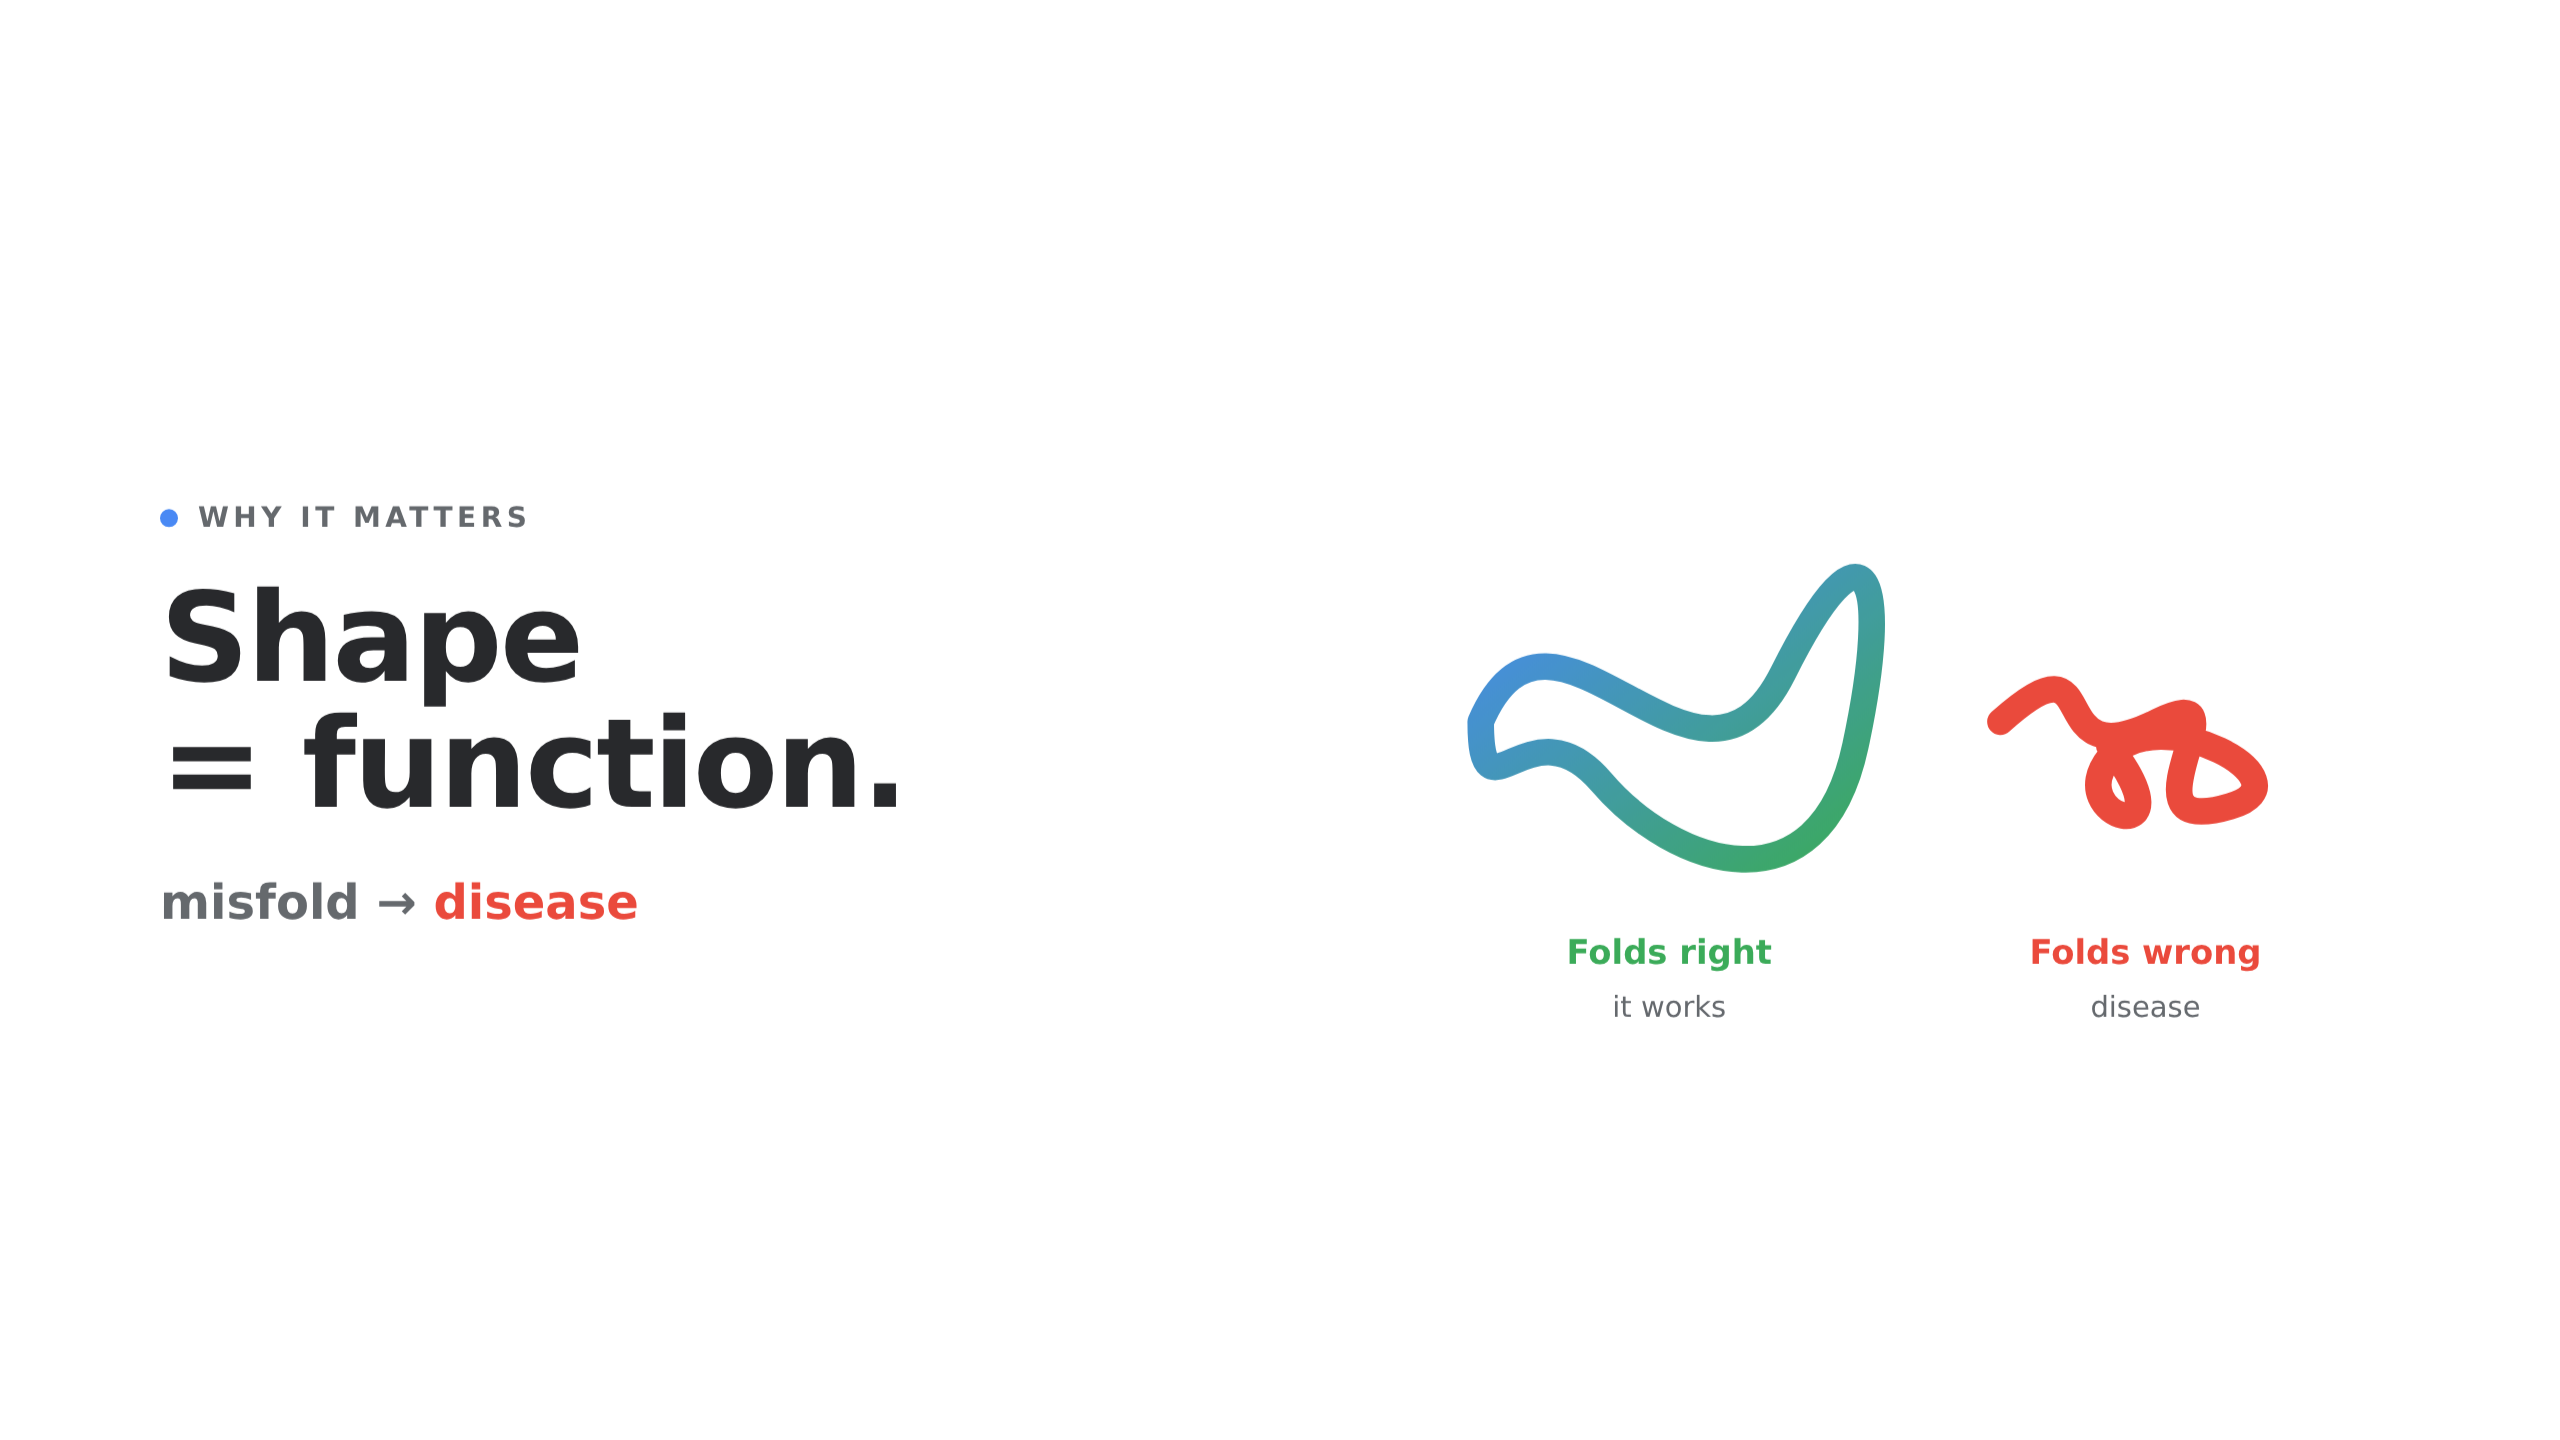
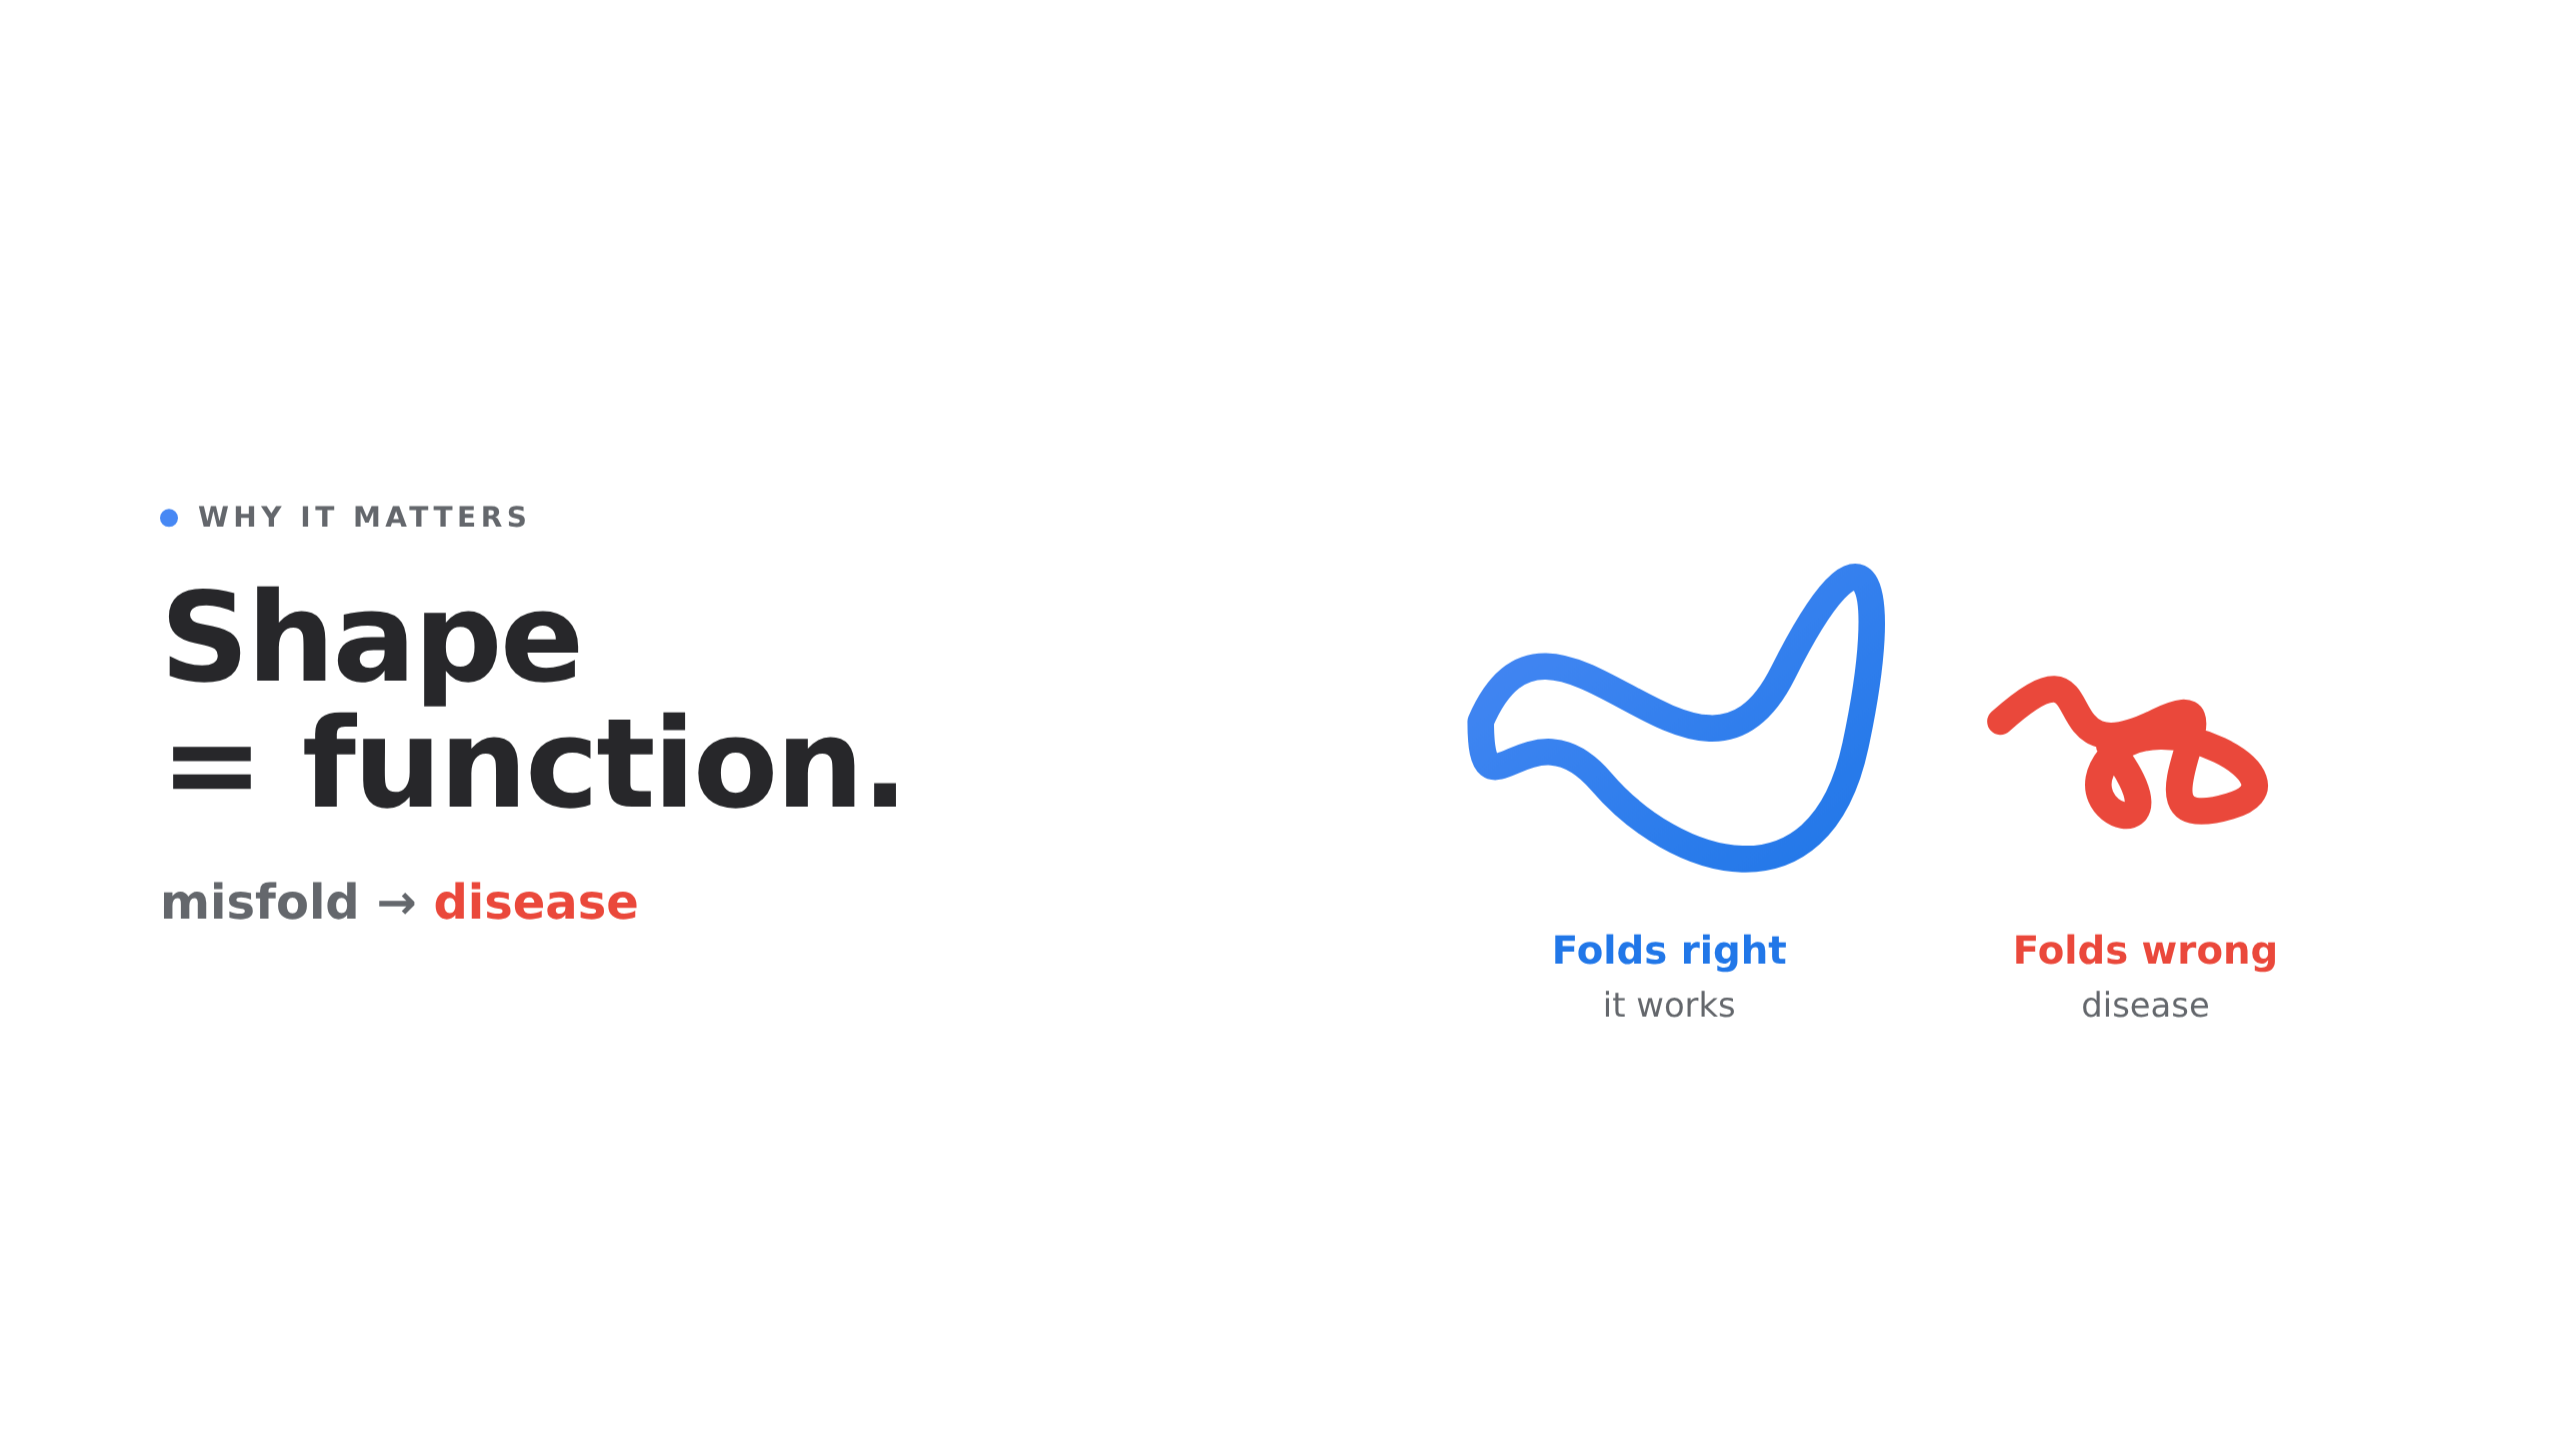
Improve color accessibility and sub-label readability
Remove red+green pairing from every content slide (blue/red, blue/yellow/green
schemes); reorder wordmark so red and green never sit adjacent. Bump sub-header,
tag, step, chip, and caption sizes for readability. Regenerate export images.

Claude-Session: https://claude.ai/code/session_01Bs5QxwcQxX81M5Q77HARNf

Changed region(s): [[0.5625, 0.375, 0.75, 0.7188], [0.7812, 0.625, 0.9062, 0.7188]]

diff --git a/presentation/alphafold.html b/presentation/alphafold.html
@@ -110,7 +110,7 @@
     letter-spacing: -.02em; text-wrap: balance;
   }
   .lead { font-size: clamp(18px, 2.5vw, 27px); line-height: 1.32; color: var(--ink-soft); font-weight: 400; max-width: 60ch; margin:0; text-wrap: balance; }
-  .sub  { font-size: clamp(15px, 1.7vw, 19px); line-height: 1.5; color: var(--muted); max-width: 56ch; margin:0; }
+  .sub  { font-size: clamp(16px, 2vw, 22px); line-height: 1.5; color: var(--muted); max-width: 56ch; margin:0; }
   .accent-blue { color: var(--g-blue-d); }
   .accent-red  { color: var(--g-red); }
   .accent-green{ color: var(--g-green); }
@@ -122,11 +122,12 @@
   /* ---------- title fold ---------- */
   .title-wrap { display:flex; flex-direction:column; gap: clamp(18px,3vh,30px); }
   .wordmark { font-weight:700; letter-spacing:-.03em; }
+  /* colors ordered so red and green never sit adjacent */
   .wordmark .a1{color:var(--g-blue);} .wordmark .a2{color:var(--g-red);}
   .wordmark .a3{color:var(--g-yellow);} .wordmark .a4{color:var(--g-blue);}
-  .wordmark .a5{color:var(--g-green);} .wordmark .a6{color:var(--g-red);}
-  .wordmark .a7{color:var(--g-blue);} .wordmark .a8{color:var(--g-green);}
-  .wordmark .a9{color:var(--g-yellow);}
+  .wordmark .a5{color:var(--g-green);} .wordmark .a6{color:var(--g-yellow);}
+  .wordmark .a7{color:var(--g-blue);} .wordmark .a8{color:var(--g-red);}
+  .wordmark .a9{color:var(--g-blue);}
 
   /* ---------- stat ---------- */
   .stat-row { display:flex; flex-wrap:wrap; gap: clamp(20px,4vw,52px); }
@@ -144,8 +145,8 @@
 
   .chips { display:flex; flex-wrap:wrap; gap:10px; }
   .chip {
-    font-size: clamp(13px,1.5vw,16px); font-weight:600;
-    padding: 9px 16px; border-radius: 999px;
+    font-size: clamp(14px,1.7vw,18px); font-weight:600;
+    padding: 10px 18px; border-radius: 999px;
     background: var(--panel-2); border:1px solid var(--line); color: var(--ink-soft);
   }
   .chip .k { width:9px; height:9px; border-radius:3px; display:inline-block; margin-right:8px; vertical-align: middle; }
@@ -160,7 +161,7 @@
   }
   .step .badge { width:32px; height:32px; border-radius:50%; display:grid; place-items:center; color:#fff; font-weight:700; font-size:15px; }
   .step h3 { margin:0; font-size: clamp(15px,1.7vw,19px); font-weight:700; letter-spacing:-.01em; }
-  .step p  { margin:0; font-size: clamp(13px,1.4vw,15px); color: var(--muted); line-height:1.4; }
+  .step p  { margin:0; font-size: clamp(14px,1.7vw,17px); color: var(--muted); line-height:1.4; }
 
   /* ---------- big contrast ---------- */
   .contrast { display:grid; grid-template-columns: 1fr auto 1fr; align-items:center; gap: clamp(16px,3vw,40px); }
@@ -168,7 +169,7 @@
   .contrast .arrow { font-size: clamp(26px,3vw,40px); color: var(--muted); text-align:center; }
   @media (max-width: 820px){ .contrast .arrow { transform: rotate(90deg); } }
   .megn { font-weight:700; letter-spacing:-.04em; line-height:.86; font-variant-numeric: tabular-nums; }
-  .tag { font-size: clamp(12px,1.4vw,15px); font-weight:600; letter-spacing:.04em; text-transform:uppercase; color:var(--muted); }
+  .tag { font-size: clamp(13px,1.7vw,17px); font-weight:600; letter-spacing:.04em; text-transform:uppercase; color:var(--muted); }
 
   svg { display:block; width:100%; height:auto; overflow: visible; }
   .visual { width:100%; }
@@ -220,7 +221,7 @@
     font-family: var(--sans);
   }
 
-  .src { font-size: clamp(11px,1.2vw,13px); color: var(--muted); }
+  .src { font-size: clamp(12px,1.35vw,15px); color: var(--muted); }
 </style>
 
 <div class="deck" id="deck">
@@ -250,22 +251,22 @@
           <svg viewBox="0 0 420 300">
             <defs>
               <linearGradient id="good" x1="0" y1="0" x2="1" y2="1">
-                <stop offset="0" stop-color="#4285F4"/><stop offset="1" stop-color="#34A853"/>
+                <stop offset="0" stop-color="#4285F4"/><stop offset="1" stop-color="#1a73e8"/>
               </linearGradient>
             </defs>
             <!-- healthy fold -->
             <g>
               <path d="M40 150 C 70 80, 130 200, 165 130 S 210 90, 195 160 S 120 210, 90 175 S 40 195, 40 150 Z"
                     fill="none" stroke="url(#good)" stroke-width="11" stroke-linecap="round" stroke-linejoin="round"/>
-              <text x="118" y="250" text-anchor="middle" font-size="14" font-weight="700" fill="var(--g-green)">Folds right</text>
-              <text x="118" y="272" text-anchor="middle" font-size="12" fill="var(--muted)">it works</text>
+              <text x="118" y="250" text-anchor="middle" font-size="16" font-weight="700" fill="var(--g-blue-d)">Folds right</text>
+              <text x="118" y="272" text-anchor="middle" font-size="14" fill="var(--muted)">it works</text>
             </g>
             <!-- misfold -->
             <g>
               <path d="M255 150 C 300 110, 270 175, 320 150 C 360 130, 300 200, 350 185 C 385 175, 320 140, 300 165 C 280 190, 335 205, 300 160"
                     fill="none" stroke="var(--g-red)" stroke-width="11" stroke-linecap="round" stroke-linejoin="round"/>
-              <text x="315" y="250" text-anchor="middle" font-size="14" font-weight="700" fill="var(--g-red)">Folds wrong</text>
-              <text x="315" y="272" text-anchor="middle" font-size="12" fill="var(--muted)">disease</text>
+              <text x="315" y="250" text-anchor="middle" font-size="16" font-weight="700" fill="var(--g-red)">Folds wrong</text>
+              <text x="315" y="272" text-anchor="middle" font-size="14" fill="var(--muted)">disease</text>
             </g>
           </svg>
         </div>
@@ -303,7 +304,7 @@
                 <path d="M0 40 L92 6 L44 30 Z" fill="var(--g-blue)"/>
                 <path d="M44 30 L92 6 L54 70 Z" fill="var(--g-blue-d)"/>
               </g>
-              <text x="220" y="150" text-anchor="middle" font-size="12.5" font-weight="600" fill="var(--muted)">paper → plane · now it flies</text>
+              <text x="220" y="150" text-anchor="middle" font-size="14" font-weight="600" fill="var(--muted)">paper → plane · now it flies</text>
             </g>
             <!-- divider -->
             <line x1="30" y1="185" x2="410" y2="185" stroke="var(--line)" stroke-width="1"/>
@@ -313,7 +314,7 @@
               <g>
                 <line x1="30" y1="105" x2="116" y2="105" stroke="var(--g-blue)" stroke-width="4" stroke-linecap="round"/>
                 <circle cx="34" cy="105" r="6" fill="var(--g-blue)"/><circle cx="57" cy="105" r="6" fill="var(--g-green)"/>
-                <circle cx="80" cy="105" r="6" fill="var(--g-yellow)"/><circle cx="103" cy="105" r="6" fill="var(--g-red)"/>
+                <circle cx="80" cy="105" r="6" fill="var(--g-yellow)"/><circle cx="103" cy="105" r="6" fill="var(--g-blue-d)"/>
               </g>
               <!-- arrow -->
               <g stroke="var(--muted)" stroke-width="2" fill="none">
@@ -322,7 +323,7 @@
               <!-- folded ribbon -->
               <path d="M250 118 C 280 78, 330 150, 350 108 S 392 88, 372 140 S 300 150, 285 122 S 250 140, 250 118 Z"
                     fill="none" stroke="url(#goodB)" stroke-width="9" stroke-linecap="round" stroke-linejoin="round"/>
-              <text x="220" y="185" text-anchor="middle" font-size="12.5" font-weight="600" fill="var(--muted)">1-D chain → 3-D shape · now it works</text>
+              <text x="220" y="185" text-anchor="middle" font-size="14" font-weight="600" fill="var(--muted)">1-D chain → 3-D shape · now it works</text>
             </g>
           </svg>
         </div>
@@ -357,7 +358,7 @@
           <p>known patterns</p>
         </div>
         <div class="step">
-          <div class="badge" style="background:var(--g-red)">2</div>
+          <div class="badge" style="background:var(--g-yellow); color:#202124">2</div>
           <h3>Reason about the parts</h3>
           <p>the <b>Evoformer</b></p>
         </div>
@@ -390,7 +391,7 @@
             <path d="M74 164 C 104 94, 164 214, 199 144 S 254 104, 239 174 S 154 224, 124 189 S 74 209, 74 164 Z"
                   fill="none" stroke="var(--g-blue)" stroke-width="4.5" stroke-linecap="round" stroke-linejoin="round" stroke-dasharray="2 5" opacity="0.9"/>
             <!-- legend -->
-            <g font-size="13" font-weight="600">
+            <g font-size="15" font-weight="600">
               <rect x="70" y="255" width="16" height="6" rx="3" fill="var(--g-green)"/>
               <text x="94" y="261" fill="var(--muted)">experiment</text>
               <rect x="205" y="255" width="16" height="6" rx="3" fill="var(--g-blue)"/>
@@ -420,7 +421,7 @@
         </div>
       </div>
       <div class="chips rise" style="margin-top:22px; justify-content:center;">
-        <span class="chip"><span class="k" style="background:var(--g-red)"></span>Disease research</span>
+        <span class="chip"><span class="k" style="background:var(--g-yellow)"></span>Disease research</span>
         <span class="chip"><span class="k" style="background:var(--g-blue)"></span>Drug discovery</span>
       </div>
       <p class="lead rise" style="margin-top:18px; text-align:center; max-width:none; font-weight:700;">AI → science's hardest problems.</p>
